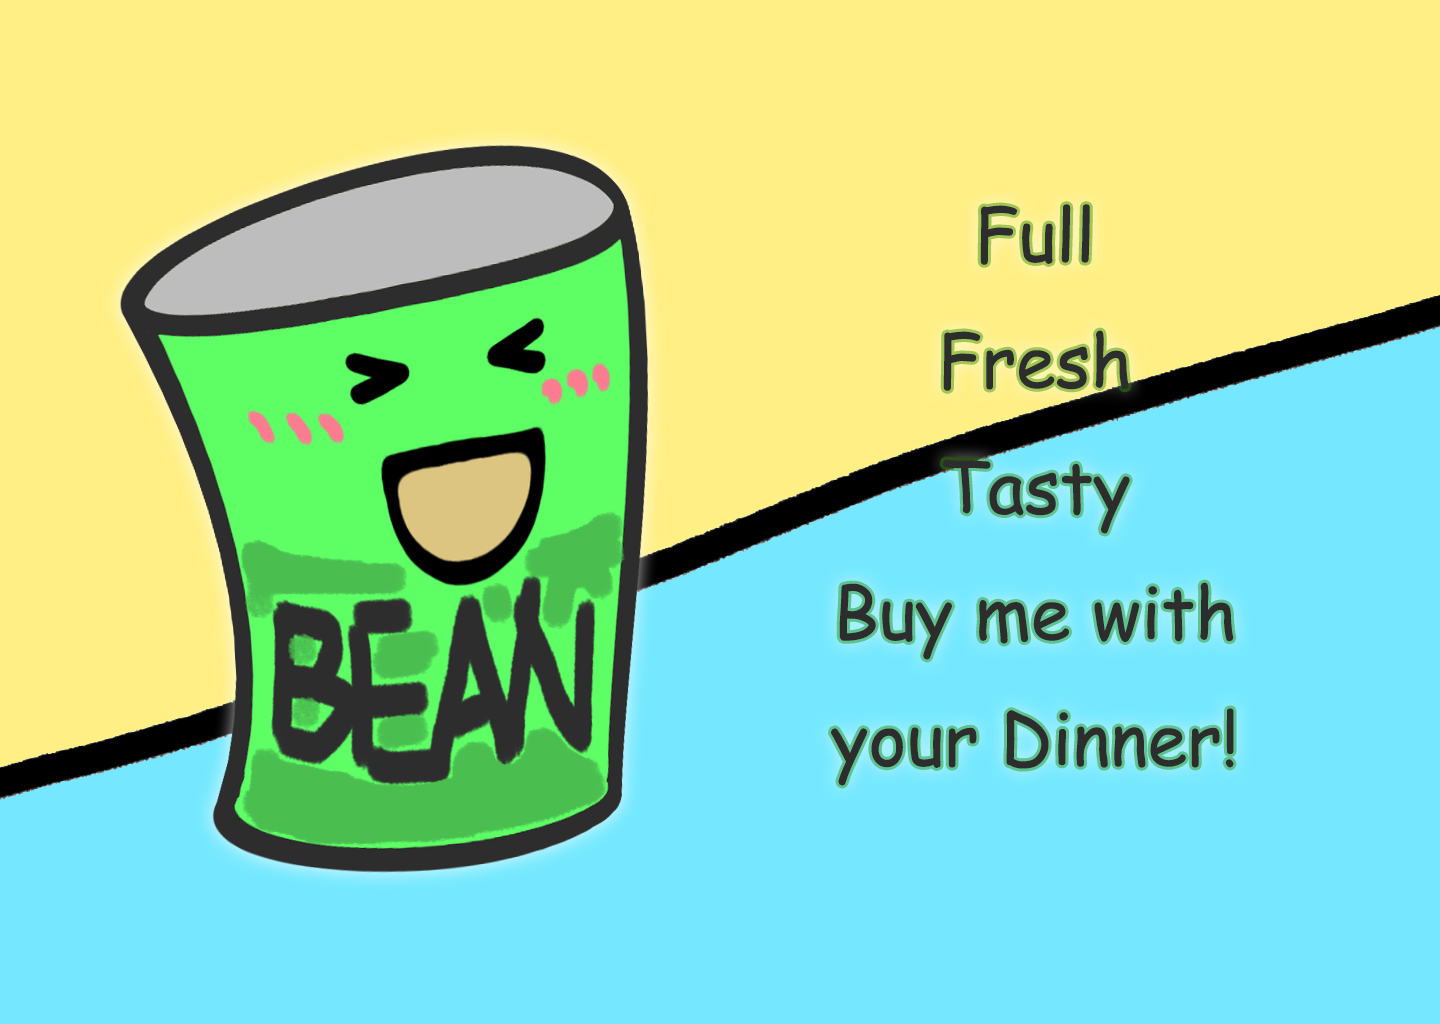
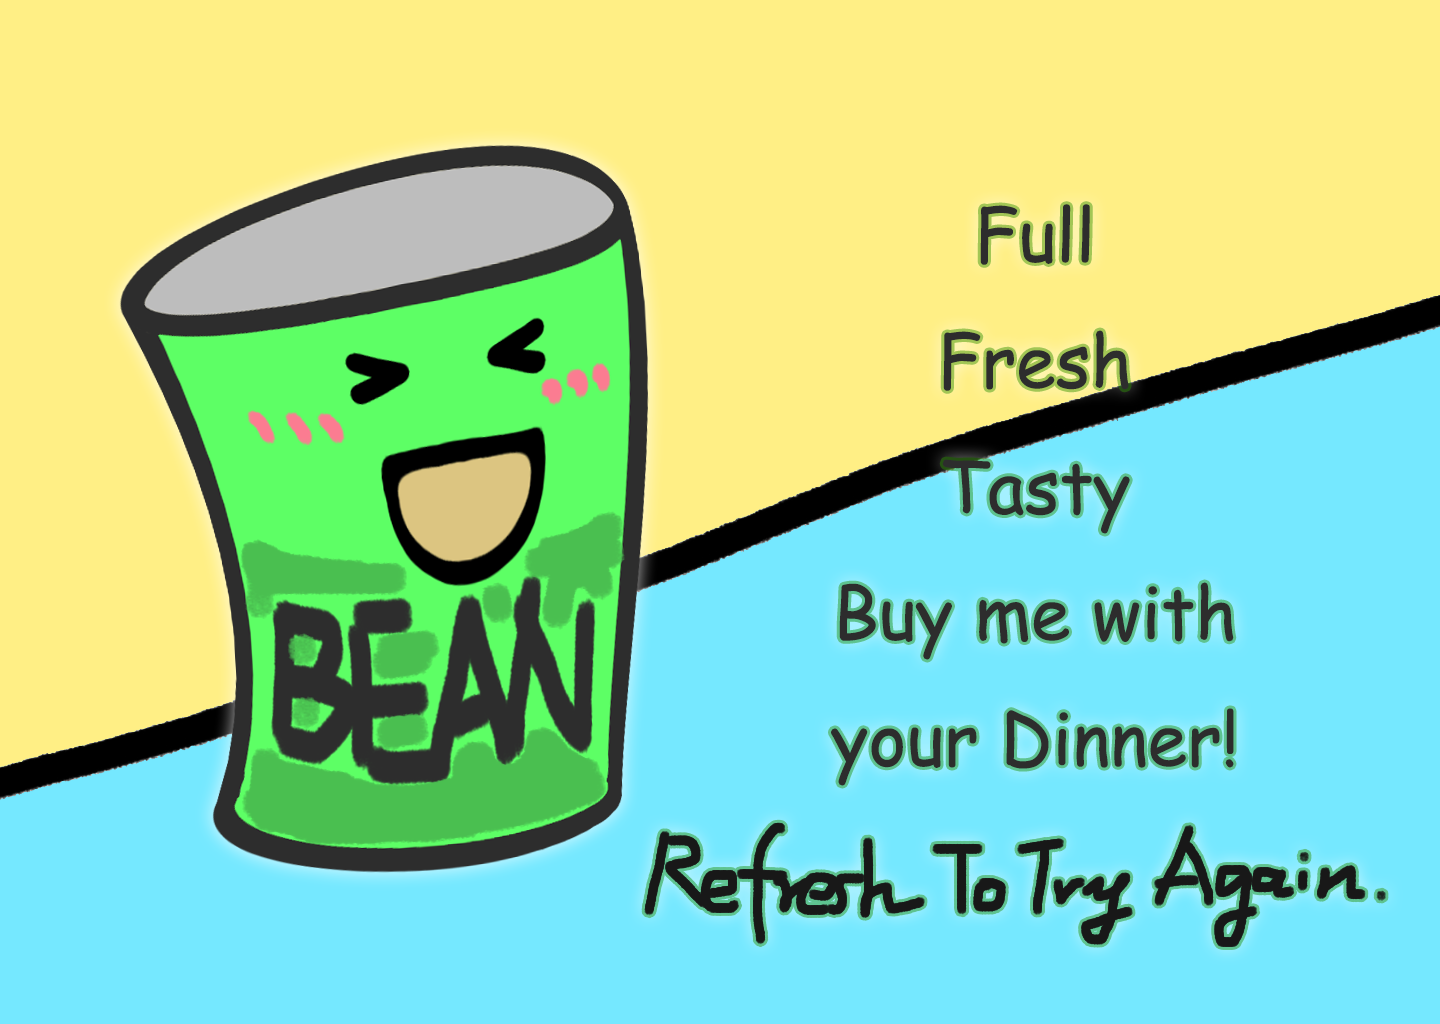
update end page fix minor experience remove test draw frame

Changed region(s): [[0.4375, 0.7812, 0.9688, 0.9375]]

diff --git a/sketch.js b/sketch.js
@@ -186,6 +186,7 @@ function initStages() {
   }));
 
   let testDraw = (x, y, w, h) => {
+    /*
     push()
     noFill()
     stroke("black");
@@ -194,6 +195,7 @@ function initStages() {
     line(x, y, x+w, y+h);
     line(x+w, y, x, y+h);
     pop()
+    */
   };
 
   { // container bowl & beans 
@@ -404,8 +406,8 @@ function initStages() {
     event: {
       zPress: ()=>{},
       xPress: ()=>{},
-      zRelease: ()=>{openWelcome()},
-      xRelease: ()=>{openWelcome()},
+      zRelease: ()=>{},
+      xRelease: ()=>{},
     }
   }
 }

diff --git a/artist-statement.md b/artist-statement.md
@@ -1,3 +1,4 @@
 # Artist Statement
 
-Write your artist statement in this file (max 200 words).
+I plan to make a small rhythm game, let customers have a short fun with beat of music. The original idea come from Rhythm Paradise, a Nintendo game on their devices. Audience play it with simply two buttons z and x interact with it, trying to hit at right timing with the background music beats.
+The welcome screen design for a introduction, tell audience a simple interaction time.
